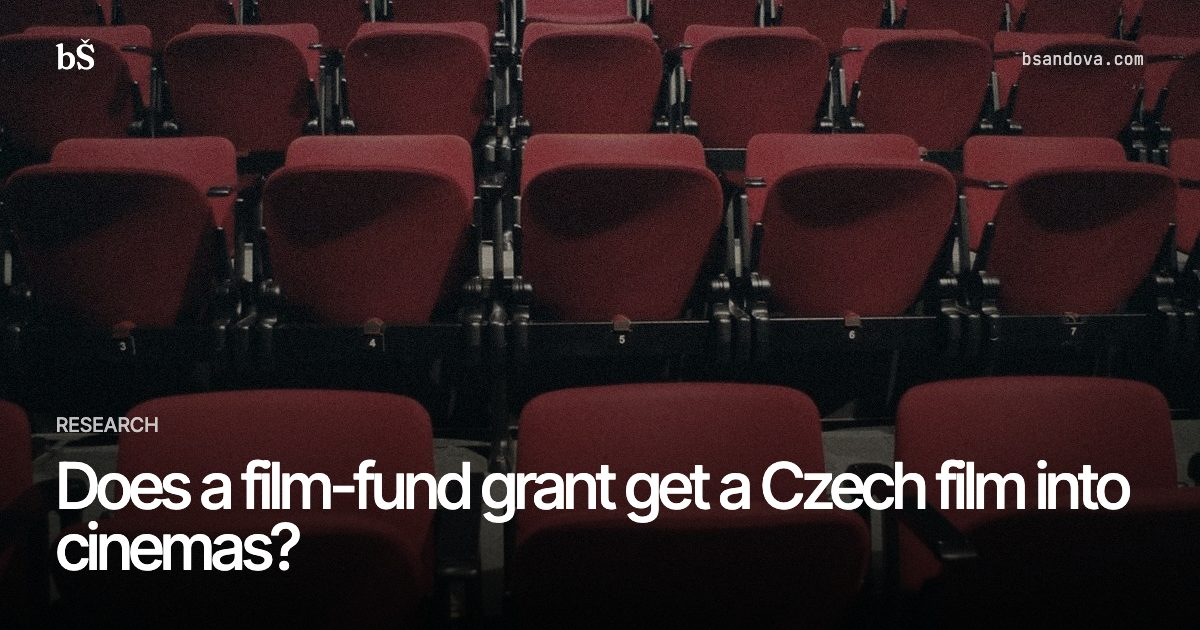
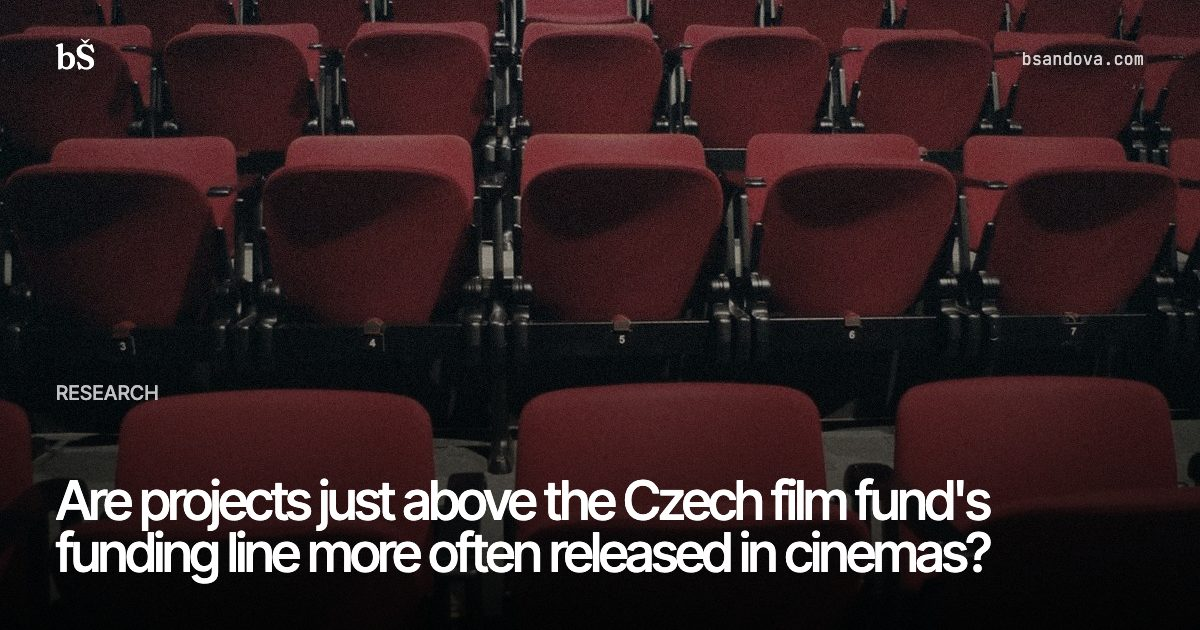
docs(film): film fund version 4, non-causal title and stable-variant range

Changed region(s): [[0.0308, 0.7238, 0.9558, 0.9349], [0.0308, 0.6635, 0.1233, 0.6937], [0.0308, 0.6032, 0.1233, 0.6333]]

diff --git a/texts/film-fund.html b/texts/film-fund.html
@@ -3,10 +3,10 @@
 <head>
 <meta charset="utf-8">
 <meta name="viewport" content="width=device-width, initial-scale=1">
-<title>Does a film-fund grant get a Czech film into cinemas? · Barbora Šandová</title>
-<meta name="description" content="A pre-specified analysis of 588 production applications to the Czech film fund, 2016–2021: at the funding cut-off, the estimated jump in release in Czech cinemas is positive but its interval includes zero (underpowered), and whether the Council's points foresee admissions could not be told.">
-<meta property="og:title" content="Does a film-fund grant get a Czech film into cinemas?">
-<meta property="og:description" content="588 production applications, 40 calls: the jump in release at the funding cut-off is +39 percentage points but underpowered; points and admissions show no clear relation (ρ −0.09).">
+<title>Are projects just above the Czech film fund's funding line more often released in cinemas? · Barbora Šandová</title>
+<meta name="description" content="A pre-specified analysis of 588 production applications to the Czech film fund, 2016–2021: projects just above the funding cut-off reached Czech cinemas an estimated 39 percentage points more often, with an interval that includes zero (underpowered), so the data cannot say whether funding at the line changes release; whether the Council's points foresee admissions could not be told.">
+<meta property="og:title" content="Are projects just above the Czech film fund's funding line more often released in cinemas?">
+<meta property="og:description" content="588 production applications, 40 calls: the difference in release at the funding cut-off is +39 percentage points (95 % CI −14 to +100), underpowered; points and admissions show no clear relation (ρ −0.09).">
 <meta property="og:type" content="article">
 <meta property="og:url" content="https://bsandova.com/texts/film-fund">
 <meta property="og:image" content="https://bsandova.com/assets/og/film-fund.jpg">
@@ -36,7 +36,7 @@
 </style>
 
 <!-- ld --><link rel="alternate" type="application/atom+xml" title="Barbora Šandová" href="/feed.xml">
-<script type="application/ld+json">{"@context": "https://schema.org", "@type": "Article", "headline": "Does a film-fund grant get a Czech film into cinemas?", "description": "A pre-specified analysis of 588 production applications to the Czech film fund, 2016–2021: at the funding cut-off, the estimated jump in release in Czech cinemas is positive but its interval includes zero (underpowered), and whether the Council's points foresee admissions could not be told.", "url": "https://bsandova.com/texts/film-fund", "image": "https://bsandova.com/assets/og/film-fund.jpg", "dateModified": "2026-10-05T22:00:43+02:00", "author": {"@type": "Person", "name": "Barbora Šandová", "url": "https://bsandova.com/"}}</script><!-- /ld -->
+<script type="application/ld+json">{"@context": "https://schema.org", "@type": "Article", "headline": "Are projects just above the Czech film fund's funding line more often released in cinemas?", "description": "A pre-specified analysis of 588 production applications to the Czech film fund, 2016–2021: projects just above the funding cut-off reached Czech cinemas an estimated 39 percentage points more often, with an interval that includes zero (underpowered), so the data cannot say whether funding at the line changes release; whether the Council's points foresee admissions could not be told.", "url": "https://bsandova.com/texts/film-fund", "image": "https://bsandova.com/assets/og/film-fund.jpg", "dateModified": "2026-10-05T22:00:43+02:00", "author": {"@type": "Person", "name": "Barbora Šandová", "url": "https://bsandova.com/"}}</script><!-- /ld -->
 </head>
 <body>
 <div class="top"><b><a href="../" aria-label="bŠ, bsandova.com, home">bŠ</a></b><nav><a href="../#work">Work</a><a href="../#works">All work</a><a href="../#about">About</a><a href="../ask/" class="ask-link">Ask</a><a href="../#contact">Contact</a></nav><span class="tr">research · film · en</span></div>
@@ -44,10 +44,10 @@
 <article class="text">
 <header class="text-head">
   <p class="kicker">Research · Czech film fund · production calls 2016–2021</p>
-  <h1>Does a film-fund grant get a Czech film <em>into cinemas?</em></h1>
-  <p class="deck">At the funding cut-off of 40 calls, the estimated jump in release in Czech cinemas is positive but its interval includes zero, so it is labelled underpowered; whether the points of the fund's Council foresee audiences could not be told.</p>
+  <h1>Are projects just above the Czech film fund's funding line <em>more often released in cinemas?</em></h1>
+  <p class="deck">Just above the funding line of 40 Czech film-fund calls, projects reached cinemas +39 pp more often (95 % CI −14 to +100, underpowered): the data cannot say whether funding at the line changes release.</p>
   <dl class="facts">
-    <div><dt>release jump at the cut-off</dt><dd>+39 pp <small>percentage points · 95 % CI −14 to +100 · underpowered</small></dd></div>
+    <div><dt>release difference at the cut-off</dt><dd>+39 pp <small>percentage points · 95 % CI −14 to +100 · underpowered</small></dd></div>
     <div><dt>points against admissions, within call</dt><dd>ρ = −0.09 <small>rank correlation, −1 to +1 · 95 % CI −0.22 to +0.04, calls resampled · 254 applications of released films, repeats included</small></dd></div>
     <div><dt>rejected near the cut-off, funded in a later call</dt><dd>28 of 88 <small>administrative count · exploratory, not in the registered plan</small></dd></div>
     <div><dt>production applications studied</dt><dd>588 <small>40 calls · administrative count</small></dd></div>
@@ -57,24 +57,24 @@
   <summary>Overwhelmed? Here's the short version</summary>
   <ul>
     <li>The fund funds projects by points until the money runs out, so those near the line are close to alike.</li>
-    <li>Just above the line, the estimate points to more releases in Czech cinemas, but zero is within its range: the data are too few to be sure.</li>
-    <li>It rests on 182 first applications near the line in 37 calls, on release found by matching titles (82–91 % of released films found) and on Czech cinemas only; across the robustness variants the estimate moves from +3 to +57 percentage points.</li>
+    <li>Just above the line, more projects reached Czech cinemas than just below it, but zero is within the interval, and the checks of the design's assumption are weak, so the data cannot say whether the money changes release.</li>
+    <li>It rests on 182 first applications near the line in 37 calls, on release found by matching titles (82–91 % of released films found) and on Czech cinemas only; across the stable robustness variants the estimate ranges from +24 to +57 percentage points (+3 at half the bandwidth, where it is unstable).</li>
     <li>In a count outside the registered plan, a third of the projects rejected near the line were funded later: a "no" was often a "not yet".</li>
     <li>Among released films, points and audiences showed no clear relation either way.</li>
   </ul>
 </details>
 <dl class="meta">
-  <div><dt>published</dt><dd>1 October 2026 · updated 3 October 2026 · <a href="../changelog/#film-fund">version 3</a></dd></div>
+  <div><dt>published</dt><dd>1 October 2026 · updated 9 October 2026 · <a href="../changelog/#film-fund">version 4</a></dd></div>
   <div><dt>work since</dt><dd>July 2024</dd></div>
 </dl>
 <details class="meta-more">
   <summary>About this study</summary>
 <dl class="meta">
   <div><dt>status</dt><dd>research, pre-specified analysis (self-timestamped)</dd></div>
-  <div><dt>registration</dt><dd>pre-specified analysis: analysis plan committed at <code>3ddd69c</code> on 1 October 2026, before this analysis was run and before the results commit <code>5a48067</code>; the author had worked with these data since July 2024; commit times are self-reported, and the branch was pushed after the analysis. Two dated changes followed, and an audit on 3 October 2026 listed the registered steps that were not carried out (see <a href="../changelog/#film-fund-changes">What changed after registration</a>).</dd></div>
+  <div><dt>registration</dt><dd>registered analysis plan: design committed at <code>3ddd69c</code> (tag <code>film-fund-design</code>) on 1 October 2026, before the results commit <code>5a48067</code> (tag <code>film-fund-results</code>); commit times are self-reported, and the branch was pushed after the analysis. On <code>main</code> both arrive in one squash commit, <code>488d7c6</code>, so they are not independently timestamped; the tags were set on 9 October 2026. The author had worked with these data since July 2024. Two dated changes followed, and an audit on 3 October 2026 listed the registered steps that were not carried out (see <a href="../changelog/#film-fund-changes">What changed after registration</a>).</dd></div>
   <div><dt>data</dt><dd>decision tables of the State Cinematography Fund and the State Audiovisual Fund, 514 files 2014–2026, accessed 1 October 2026<sup class="cite"><a href="#r4">4</a></sup><sup class="cite"><a href="#r5">5</a></sup>; UFD premiere lists 2016–2025<sup class="cite"><a href="#r6">6</a></sup>; LUMIERE, 999 films with Czech (co-)production, accessed 1 October 2026<sup class="cite"><a href="#r7">7</a></sup>; Wikidata production companies<sup class="cite"><a href="#r11">11</a></sup>. Hashes in <a href="https://github.com/sandovabarbora/bsandova.com/blob/main/docs/research/film-fund-files.sha256">film-fund-files.sha256</a>; the study's rows in <a href="../assets/film/applications.csv">applications.csv</a>.</dd></div>
   <div><dt>code</dt><dd><a href="https://github.com/sandovabarbora/bsandova.com/tree/main/tools/film">tools/film/</a> at the commit that publishes this page; rebuild: <code>uv run … python tools/film/analyse.py</code> (full order under <a href="#reproduction">Reproduction</a>)</dd></div>
-  <div><dt>cite as</dt><dd>Šandová, B. (2026). <i>Does a film-fund grant get a Czech film into cinemas?</i> bsandova.com/texts/film-fund, version 3.</dd></div>
+  <div><dt>cite as</dt><dd>Šandová, B. (2026). <i>Are projects just above the Czech film fund's funding line more often released in cinemas?</i> bsandova.com/texts/film-fund, version 4.</dd></div>
   <div><dt>licence</dt><dd>code MIT; text, figures and data CC BY 4.0</dd></div>
 </dl>
 </details>
@@ -82,7 +82,7 @@
 <section class="film film-page"><div class="shot" style="view-transition-name:ph-film-fund;--bg:url(../assets/photo/film-fund.jpg);--bg-s:url(../assets/photo/film-fund-1200.jpg)"></div><p class="credit">Photo: <a href="https://www.rawpixel.com/image/5921030/photo-image-background-public-domain-red">rawpixel</a> · CC0, toned</p></section>
 
 <section>
-<p>Public film funds decide which films are made, but it is hard to say what their money changes, because the projects they fund are the ones that look most likely to succeed anyway. A ranking with a hard budget line offers a way round this. When applications are funded in order of their points until the money runs out, those just above the line and those just below it were judged almost alike, and comparing them estimates the effect of the money itself. Jacob and Lefgren used the funding line of the US National Institutes of Health in this way to estimate what a research grant changes<sup class="cite"><a href="#r1">1</a></sup>, and Li asked whether reviewers' scores foresee the later success of what they fund<sup class="cite"><a href="#r2">2</a></sup>; the method is set out by Cattaneo, Idrobo and Titiunik<sup class="cite"><a href="#r3">3</a></sup>. The Czech film fund publishes, for every call, the points and the award of every application, funded or not, which makes the same two questions answerable for Czech film: does production support change whether a project reaches cinemas and how many people see it, and do the points of the Council, the fund's board that scores applications, foresee audiences.</p>
+<p>Public film funds decide which films are made, but it is hard to say what their money changes, because the projects they fund are the ones that look most likely to succeed anyway. A ranking with a hard budget line offers a way round this. When applications are funded in order of their points until the money runs out, those just above the line and those just below it were judged almost alike, and comparing them estimates what the money changes, provided nothing else changes at the line. Jacob and Lefgren used the funding line of the US National Institutes of Health in this way to estimate what a research grant changes<sup class="cite"><a href="#r1">1</a></sup>, and Li asked whether reviewers' scores foresee the later success of what they fund<sup class="cite"><a href="#r2">2</a></sup>; the method is set out by Cattaneo, Idrobo and Titiunik<sup class="cite"><a href="#r3">3</a></sup>. The Czech film fund publishes, for every call, the points and the award of every application, funded or not, which makes the same two questions answerable for Czech film: do projects just above the line reach cinemas more often and draw more viewers than those just below it, and do the points of the Council, the fund's board that scores applications, foresee audiences.</p>
 </section>
 
 <section>
@@ -99,9 +99,9 @@
 
 <section>
 <h2>How this was done</h2>
-<p>In every one of the 77 production calls in the tables the line is sharp: every funded application has more points than every unfunded one (fig. 1). The design is a regression discontinuity: it compares applications just above and just below the line. The running variable, the number that decides funding, is an application's points minus its call's cut-off; the treatment is an award above zero; and the estimand, the quantity to be estimated, is the effect of support for a project at the cut-off. It is estimated pooled across calls. A straight line is fitted on each side of the cut-off (local linear), applications closer to the line count more (a triangular kernel), the bandwidth, how many points either side are used, is the one that minimizes mean squared error, and the 95 % confidence intervals are robust bias-corrected, which allows for the curvature a straight line misses, and clustered by call, so applications in the same call are not treated as independent<sup class="cite"><a href="#r3">3</a></sup>. The effective sample, the applications inside the bandwidth, is given next to every estimate.</p>
+<p>In every one of the 77 production calls in the tables the line is sharp: every funded application has more points than every unfunded one (fig. 1). The design is a regression discontinuity: it compares applications just above and just below the line. The running variable, the number that decides funding, is an application's points minus its call's cut-off; the treatment is an award above zero; and the estimand, the quantity to be estimated, is the effect of support for a project at the cut-off. It is estimated pooled across calls. The comparison identifies that effect only under one assumption: that without the award, release and admissions would change smoothly across the cut-off, which requires that the Council did not place projects on one side of the line on purpose and that nothing else changes at the line. A straight line is fitted on each side of the cut-off (local linear), applications closer to the line count more (a triangular kernel), the bandwidth, how many points either side are used, is the one that minimizes mean squared error, and the 95 % confidence intervals are robust bias-corrected, which allows for the curvature a straight line misses, and clustered by call, so applications in the same call are not treated as independent<sup class="cite"><a href="#r3">3</a></sup>. The effective sample, the applications inside the bandwidth, is given next to every estimate.</p>
 <p>The weak point is linking an application to a released film, because working titles change. The linking was done blind: the code that matched titles never loaded the points or the awards. An exact match of the normalized title within six years of the call counted directly, with a random tenth of them checked by hand; every looser match was checked by hand without the funding status, and the links were frozen before any points were joined. A blind audit of 60 unmatched applications then searched for films released under other titles (see <a href="../changelog/#film-fund-changes">What changed after registration</a>). The second outcome is Czech admissions, analysed as the logarithm of one plus admissions, with zero for a project that was not released; 15 linked projects have no admissions figure and are left out of that outcome.</p>
-<p>The Council scores knowing how much money a call has, so it could in principle place projects just above or below the line on purpose. Two checks look for that: a test of whether applications bunch on one side of the cut-off, the local polynomial density test of Cattaneo, Jansson and Ma<sup class="cite"><a href="#r8">8</a></sup>, which refines McCrary's<sup class="cite"><a href="#r9">9</a></sup>, and a test of whether the budget, the amount requested, the share of the budget requested and the producer's earlier funded applications jump at the cut-off. The last of these was computed with each producer's applications in alphabetical order of title rather than in order of time, and it counts later calls too, so it does not measure what it names; only the first three balance checks are read. The density test is weaker than its p-value, the chance of bunching at least this uneven if there were none, suggests: the cut-off is placed between the last funded and the first unfunded project after the money was allocated, so by construction no application sits right at it and few sit close to it.</p>
+<p>The Council scores knowing how much money a call has, so it could in principle place projects just above or below the line on purpose. Two checks look for that: a test of whether applications bunch on one side of the cut-off, the local polynomial density test of Cattaneo, Jansson and Ma<sup class="cite"><a href="#r8">8</a></sup>, which refines McCrary's<sup class="cite"><a href="#r9">9</a></sup>, and a test of whether the budget, the amount requested, the share of the budget requested and the producer's earlier funded applications jump at the cut-off. The last of these was computed with each producer's applications in alphabetical order of title rather than in order of time, and it counts later calls too, so it does not measure what it names; only the first three balance checks are read, so the registered balance rule was not fully applied. The density test is uninformative by construction: the cut-off is placed between the last funded and the first unfunded project after the money was allocated, so no application sits right at it and few sit close to it, and its p-value, the chance of bunching at least this uneven if there were none, cannot show the absence of sorting. Neither check therefore supports the assumption as fully as the plan intended, and the estimates below are read with that qualification.</p>
 <p>How much the data can show was worked out before this analysis joined any outcome, from the points alone. Counting every application, repeat ones included, there were about 250 within five points of the cut-off in 2016–2021; with that many, a difference in the share released of about 25 percentage points would be detected four times in five at the 5 % level. The analysis keeps first applications only, of which 175 lie within five points, so the difference it can detect is larger than 25 points; a difference of 10 points, which would still matter to a producer, would mostly be missed. The labels were fixed accordingly: an interval that excludes zero is "supported", one that stays within ten points of zero is "not supported", and anything between is "underpowered".</p>
 </section>
 
@@ -114,8 +114,8 @@
   <tr><td>Q1 · O1 release in Czech cinemas</td><td>supported if the 95 % CI excludes 0; not supported if it lies within ±10 pp</td><td class="v">+39 pp <small>95 % CI −14 to +100 · 88 / 94 applications · 37 calls</small></td><td class="v"><b>underpowered</b></td></tr>
   <tr><td>Q1 · O2 log(1 + Czech admissions)</td><td>supported if the 95 % CI excludes 0; not supported if it lies within ±0.25</td><td class="v">+3.18 <small>95 % CI −2.30 to +9.23 · 86 / 91 · 37 calls</small></td><td class="v"><b>underpowered</b></td></tr>
   <tr><td>Q2 · points and admissions, released films</td><td>descriptive, no label</td><td class="v">ρ = −0.09 <small>95 % CI −0.22 to +0.04 · 254 applications, repeats included · 32 calls</small></td><td class="v">descriptive</td></tr>
-  <tr><td>Validity · bunching at the cut-off</td><td>indeterminate if p &lt; 0.05</td><td class="v">p = 0.45</td><td class="v">passes</td></tr>
-  <tr><td>Validity · covariates at the cut-off</td><td>indeterminate if any 95 % CI excludes 0</td><td class="v">the three read include 0; the fourth was miscomputed</td><td class="v">passes, on three</td></tr>
+  <tr><td>Validity · bunching at the cut-off</td><td>indeterminate if p &lt; 0.05</td><td class="v">p = 0.45</td><td class="v">uninformative by construction</td></tr>
+  <tr><td>Validity · covariates at the cut-off</td><td>indeterminate if any 95 % CI excludes 0</td><td class="v">3 of 4 computed; the three include 0; the fourth was miscomputed</td><td class="v">rule not fully applied</td></tr>
   </tbody>
 </table>
 </div>
@@ -124,13 +124,13 @@
 
 <section>
 <h2>Does support change whether a film reaches cinemas?</h2>
-<p>Across all 588 applications, 50 % of the funded and 29 % of the unfunded projects were linked to a release in Czech cinemas by 30 September 2026. That gap mixes the money with everything that made the Council rank a project highly. At the cut-off the comparison is between projects scored almost alike. There, the share released rises by an estimated 39 percentage points from just below to just above the line, but the 95 % confidence interval runs from −14 to +100 points (fig. 2). With 182 first applications near the line the interval is so wide that it includes both no effect and an effect of +100 points; it includes zero and the design's 25-point bound, so the registered label is <b>underpowered</b>, not "no effect". The plan also asked for this result to be given as a range that bounds the linking errors; that range was not computed (see <a href="../changelog/#film-fund-changes">What changed after registration</a>).</p>
+<p>Across all 588 applications, 50 % of the funded and 29 % of the unfunded projects were linked to a release in Czech cinemas by 30 September 2026. That gap mixes the money with everything that made the Council rank a project highly. At the cut-off the comparison is between projects scored almost alike. There, the share released is an estimated 39 percentage points higher just above the line than just below it, but the 95 % confidence interval runs from −14 to +100 points (fig. 2). With 182 first applications near the line the interval is so wide that it includes both no effect and an effect of +100 points; it includes zero and the design's 25-point bound, so the registered label is <b>underpowered</b>, not "no effect", and the data cannot say whether funding at the line changes release. The plan also asked for this result to be given as a range that bounds the linking errors; that range was not computed (see <a href="../changelog/#film-fund-changes">What changed after registration</a>).</p>
 <figure data-chart="../assets/film/charts.json#release">
-  <p class="ch-head">Underpowered: at the cut-off, release in Czech cinemas jumps +39 percentage points, but the interval runs from −14 to +100.</p>
+  <p class="ch-head">Underpowered: at the cut-off, the share released in Czech cinemas is +39 percentage points higher on the funded side, but the interval runs from −14 to +100.</p>
   <img src="../assets/film/02-release.svg" alt="Share of applications that reached Czech cinemas by 30 September 2026, in 1-point bins around the cut-off, with local linear fits within 5.1 points on each side." loading="lazy">
   <figcaption><b>fig. 2</b> · Share of production applications released in Czech cinemas by 30 September 2026, by points from the call's cut-off, 1-point bins (dot size: number of applications), with triangular-kernel local linear fits within 5.1 points on each side; 2016–2021, n = 588. Blue: the funded side; grey: the unfunded side. The fit is drawn for reading only; the estimate and its interval are in the table above. Data: fund decision tables<sup class="cite"><a href="#r4">4</a></sup><sup class="cite"><a href="#r5">5</a></sup>, UFD<sup class="cite"><a href="#r6">6</a></sup> and LUMIERE<sup class="cite"><a href="#r7">7</a></sup>, accessed 1 October 2026.</figcaption>
 </figure>
-<p>Part of why the jump is hard to measure is in the fund's own records. Of the 88 applications rejected within the bandwidth below the cut-off, 28 were funded in a later production call up to 2026 under the same title and applicant. This count was not in the registered plan, and it is a lower bound, since projects that changed title are not followed. For a third of the near misses, then, the fund's answer was "not yet" rather than "no", and the comparison at the first application measures the effect of being funded at once against being funded later or never. Czech admissions show the same pattern: a positive estimate at the cut-off, +3.18 on the log scale, with an interval from −2.30 to +9.23, labelled <b>underpowered</b>. That outcome, the logarithm of one plus admissions with zero for unreleased projects, mixes whether a film was released with how many people saw it, depends on the unit in which admissions are counted and is driven by the zeros<sup class="cite"><a href="#r10">10</a></sup>; it is not an elasticity, a percentage change in admissions, and since its interval includes zero, not even its sign is established.</p>
+<p>The fund's own records may explain part of why the difference is hard to measure. Of the 88 applications rejected within the bandwidth below the cut-off, 28 were funded in a later production call up to 2026 under the same title and applicant. This count was not in the registered plan, and it is a lower bound, since projects that changed title are not followed. For a third of the near misses, then, the fund's answer was "not yet" rather than "no", and the comparison at the first application measures the effect of being funded at once against being funded later or never. Czech admissions show the same pattern: a positive estimate at the cut-off, +3.18 on the log scale, with an interval from −2.30 to +9.23, labelled <b>underpowered</b>. That outcome, the logarithm of one plus admissions with zero for unreleased projects, mixes whether a film was released with how many people saw it, depends on the unit in which admissions are counted and is driven by the zeros<sup class="cite"><a href="#r10">10</a></sup>; it is not an elasticity, a percentage change in admissions, and since its interval includes zero, not even its sign is established.</p>
 <p>The near misses can also be followed descriptively. Of the 94 projects funded within the bandwidth above the line, 54 % reached cinemas. Of the 28 rejected projects that were funded in a later call, 54 % did too, and of the 60 not funded in any production call up to 2026, 25 %. These shares are exploratory, outside the registered plan, and not estimates of an effect, because the projects that tried again and succeeded may differ from those that did not. The last two shares are not produced by any committed script.</p>
 <div class="ht-wrap">
 <table class="ht">
@@ -143,8 +143,8 @@
   </tbody>
 </table>
 </div>
-<p class="note">Released: linked to a premiere in Czech cinemas by 30 September 2026; administrative counts, descriptive, all 588 applications, not only those near the cut-off. Animation calls include series and combined development-and-production calls, whose output often goes to television, which is why so few animation projects are counted as released.</p>
-<p>By kind of project, the gap between funded and unfunded applications is widest for documentaries, where 55 % of funded and 23 % of unfunded projects reached cinemas, and the release share is lowest for animation, where most calls fund series and the fund's support often ends in a television broadcast that these sources do not record. These raw gaps are larger than any credible effect of the money alone, which is the reason for comparing at the line.</p>
+<p class="note">Released: linked to a premiere in Czech cinemas by 30 September 2026; administrative counts, descriptive, all 588 applications, not only those near the cut-off. Animation calls include series and combined development-and-production calls, whose output often goes to television, which may explain why so few animation projects are counted as released.</p>
+<p>By kind of project, the gap between funded and unfunded applications is widest for documentaries, where 55 % of funded and 23 % of unfunded projects reached cinemas, and the release share is lowest for animation, where most calls fund series and the fund's support often ends in a television broadcast that these sources do not record. These raw gaps mix the money with how the Council ranked the projects, the reason for comparing at the line.</p>
 </section>
 
 <section>
@@ -174,18 +174,18 @@
   </tbody>
 </table>
 </div>
-<p class="note">Robust bias-corrected intervals can be wider than the share they describe and can exclude their own point estimate when the bandwidth is small; at half the bandwidth, with 57 applications in 21 calls, the estimate is unstable and is not read. Two variants exclude zero, in opposite directions: the donut and the halved bandwidth. For admissions, the halved bandwidth's interval is entirely negative too (−32.05 to −3.45, 28 / 27 applications, 21 calls). Across the variants the point estimate for release moves from +3 to +57 points, so its size depends on choices such as the bandwidth.</p>
+<p class="note">Robust bias-corrected intervals can be wider than the share they describe and can exclude their own point estimate when the bandwidth is small. At half the bandwidth, with 57 applications in 21 calls, the estimate (+3 pp, 95 % CI −323 to −46) lies outside its own interval; it is unstable, is not read, and is left out of the range and the count below. For admissions, the halved bandwidth's interval is entirely negative too (−32.05 to −3.45, 28 / 27 applications, 21 calls). Among the stable variants the point estimate for release ranges from +24 to +57 points, so its size depends on choices such as the bandwidth and the window, and only one of them, the donut, has an interval that excludes zero.</p>
 </section>
 
 
 <section>
 <h2>What this means</h2>
-<p>Measured: in production calls of 2016–2021, projects just above the funding line reached Czech cinemas by an estimated 39 percentage points more often than projects just below it, with a 95 % interval from −14 to +100 points. With 182 first applications near the line, that interval includes no effect, and across the robustness variants the estimate moves from +3 to +57 points. In a count outside the registered plan, a third of the projects rejected near the line were funded later. Among released films, points and admissions showed no clear relation (ρ −0.09, 95 % CI −0.22 to +0.04): the interval rules out a positive relation above about 0.04 but not a weak negative one. For someone deciding how the fund should work, the data support little: a rejection near the line was often followed by funding later, and these data cannot show that points given for artistic and production merit foresee audiences. Whether a single grant changes whether a film reaches Czech cinemas remains open; a design with more calls, or one that follows projects through their later applications, would be needed to settle it.</p>
+<p>Measured: in production calls of 2016–2021, projects just above the funding line reached Czech cinemas by an estimated 39 percentage points more often than projects just below it, with a 95 % interval from −14 to +100 points. With 182 first applications near the line, that interval includes no effect, and across the stable robustness variants the estimate ranges from +24 to +57 points (+3 at half the bandwidth, where it is unstable). The checks of the assumption the design rests on are weak: the density test is uninformative by construction and the balance rule was applied to three of four covariates. In a count outside the registered plan, a third of the projects rejected near the line were funded later. Among released films, points and admissions showed no clear relation (ρ −0.09, 95 % CI −0.22 to +0.04): the interval rules out a positive relation above about 0.04 but not a weak negative one. For someone deciding how the fund should work, the data support little: a rejection near the line was often followed by funding later, and these data cannot show that points given for artistic and production merit foresee audiences. Whether a single grant changes whether a film reaches Czech cinemas remains open; a design with more calls, or one that follows projects through their later applications, would be needed to settle it.</p>
 </section>
 
 <section>
 <h2>What this does not show</h2>
-<p>The effect is estimated at the funding line only and says nothing about projects far above or below it. Release means release in Czech cinemas; television premieres, streaming and festival screenings are not in the data, so a documentary made for television counts as unreleased. Linking misses films whose titles changed beyond recognition, about one in ten unmatched applications in the audit; because fewer unfunded projects were linked, the share of released films missed is somewhat higher among unfunded ones (recall about 91 % against 82–87 %), which pushes the estimated effect on release upward. The fund's award is the only money observed: Czech Television, regional funds and the separate production incentives are not, and a rejected project may have found them. The points cannot show whether a funded film was better than it would have been without support. None of this evaluates the fund as a whole, its other programmes or the 2025 scheme.</p>
+<p>The effect is estimated at the funding line only and says nothing about projects far above or below it. Release means release in Czech cinemas; television premieres, streaming and festival screenings are not in the data, so a documentary made for television counts as unreleased. Linking misses films whose titles changed beyond recognition: the blind audit of 60 unmatched applications found films released under another title for 3 of 30 funded and 2 of 30 unfunded applications, with one more unfunded case unsure; because fewer unfunded projects were linked, the share of released films missed is somewhat higher among unfunded ones (recall about 91 % against 82–87 %), which would push the estimate for release upward if the same gap holds at the line. The fund's award is the only money observed: Czech Television, regional funds and the separate production incentives are not, and a rejected project may have found them. The points cannot show whether a funded film was better than it would have been without support. None of this evaluates the fund as a whole, its other programmes or the 2025 scheme.</p>
 </section>
 
 <section id="reproduction">
@@ -211,7 +211,7 @@
 <li id="r5">Státní fond audiovize (2025–2026). Jednání rad, decision tables. <a href="https://sfa.gov.cz/jednani">sfa.gov.cz/jednani</a>. Accessed 1 October 2026.</li>
 <li id="r6">Unie filmových distributorů (2016–2025). Premiéry v českých kinech, annual lists. <a href="https://www.ufd.cz/prehledy-statistiky/premiery-v-ceskych-kinech">ufd.cz</a>. Accessed 1 October 2026.</li>
 <li id="r7">European Audiovisual Observatory (2026). LUMIERE, admissions of films released in Europe; search by producing country CZ including minority co-production, production years 2014–2026. <a href="https://lumiere.obs.coe.int/">lumiere.obs.coe.int</a>. Accessed 1 October 2026.</li>
-<li id="r8">Cattaneo, M. D., Jansson, M., Ma, X. (2020). Simple local polynomial density estimators. <i>Journal of the American Statistical Association</i> 115(531), 1449–1455. <a href="https://doi.org/10.1080/01621459.2019.1635480">doi:10.1080/01621459.2019.1635480</a>.</li>
+<li id="r8">Cattaneo, M. D., Jansson, M., Ma, X. (2020). Simple local polynomial density estimators. <i>Journal of the American Statistical Association</i> 115(531), 1449–1455. <a href="https://doi.org/10.1080/01621459.2019.1635480">doi:10.1080/01621459.2019.1635480</a>. Accessed 1 October 2026.</li>
 <li id="r9">McCrary, J. (2008). Manipulation of the running variable in the regression discontinuity design: a density test. <i>Journal of Econometrics</i> 142(2), 698–714. <a href="https://doi.org/10.1016/j.jeconom.2007.05.005">doi:10.1016/j.jeconom.2007.05.005</a>. Accessed 1 October 2026.</li>
 <li id="r10">Chen, J., Roth, J. (2024). Logs with zeros? Some problems and solutions. <i>Quarterly Journal of Economics</i> 139(2), 891–936. <a href="https://doi.org/10.1093/qje/qjad054">doi:10.1093/qje/qjad054</a>. Accessed 1 October 2026.</li>
 <li id="r11">Wikidata (2026). Production company (P272) of the LUMIERE films' items, SPARQL query. <a href="https://query.wikidata.org/">query.wikidata.org</a>. Accessed 1 October 2026.</li>

diff --git a/docs/changelogs/film-fund.html b/docs/changelogs/film-fund.html
@@ -6,6 +6,7 @@
 </ul>
 <h4>Change log</h4>
 <ul>
+<li>9 October 2026, version 4, following a model-based review after publication: retitled from "Does a film-fund grant get a Czech film into cinemas?" to "Are projects just above the Czech film fund's funding line more often released in cinemas?" (the URL is kept), and the deck now says the data cannot say whether funding at the line changes release (+39 pp, 95 % CI −14 to +100, underpowered). The identifying assumption of the regression discontinuity (no sorting across the line and nothing else changing there) is stated, with the state of its checks: the density test (p = 0.45) is uninformative by construction, since the cut-off is placed after allocation, and the balance rule was applied to 3 of 4 covariates (the fourth was miscomputed), so the registered rule was not fully applied; the tests table no longer says "passes". The halved-bandwidth variant (+3 pp, 95 % CI −323 to −46, its estimate outside its own interval) is now left out of the range and of the count of intervals excluding zero: among the stable variants the estimate ranges from +24 to +57 pp, and only the donut excludes zero (version 3 said "+3 to +57" and that two variants exclude zero). "Is why" and "the reason" readings softened to "may explain"; "the effect of the money itself" and "rises" reworded as a comparison at the line. The recall audit's counts are printed (films released under another title for 3 of 30 funded and 2 of 30 unfunded unmatched applications, one more unfunded unsure). Reference 8 gains its accessed date. The registration row uses the wording of the editorial standard, §6, cites the branch commits by tags set on 9 October 2026 (<code>film-fund-design</code>, <code>film-fund-results</code>) and says that on <code>main</code> design and results share the squash commit <code>488d7c6</code>, so they are not independently timestamped. The chart's callout and alt text say "difference" at the cut-off instead of "jump". No estimate in results.json changed.</li>
 <li>6 October 2026: charts restyled with a headline and notes at key points; numbers unchanged.</li>
 <li>6 October 2026: retitled from "What a Czech film fund grant changes at the cut-off, 2016–2021" to a question; text and numbers unchanged.</li>
 <li>5 October 2026: work dates added; the wording on the analysis plan corrected to match them. No number changed.</li>

diff --git a/tools/film/figures.py b/tools/film/figures.py
@@ -81,7 +81,7 @@ def main() -> None:
             "tip": f"{r.b - 0.5:+.0f} to {r.b + 0.5:+.0f} points: {r.share * 100:.0f} % of {int(r.n)} reached cinemas"} for r in g.itertuples()]
     o1 = R["Q1"]["O1_release"]
     charts["release"] = {
-        "alt": f"Share of applications that reached Czech cinemas by 30 September 2026, in 1-point bins around the cut-off, with local linear fits within {h:.1f} points on each side; the estimated jump at the cut-off is {o1['coef'] * 100:+.0f} percentage points (95 % CI {o1['lo'] * 100:+.0f} to {o1['hi'] * 100:+.0f}).",
+        "alt": f"Share of applications that reached Czech cinemas by 30 September 2026, in 1-point bins around the cut-off, with local linear fits within {h:.1f} points on each side; the estimated difference at the cut-off is {o1['coef'] * 100:+.0f} percentage points (95 % CI {o1['lo'] * 100:+.0f} to {o1['hi'] * 100:+.0f}).",
         "legend": [{"label": "funded side", "c": "held", "shape": "dot"}, {"label": "unfunded side", "c": "grey", "shape": "dot"},
                    {"label": f"local linear fit, {h:.1f} points each side", "c": "ink"}],
         "panels": [{"h": 280, "title": "share released in Czech cinemas by 30 Sep 2026",

diff --git a/tools/charts/story_studies.py b/tools/charts/story_studies.py
@@ -106,8 +106,8 @@ def film() -> None:
     below = next(m for m in lines if m["pts"][-1][0] == 0)
     jump = above["pts"][0][1] - below["pts"][-1][1]
     callout(p, x=0, y=above["pts"][0][1], dx=16, dy=-14, anchor="start",
-            s=f"jump at the cut-off: {jump:+.0f} points, underpowered",
-            narrow={"s": f"jump {jump:+.0f} points,\nunderpowered", "dy": -22})
+            s=f"difference at the cut-off: {jump:+.0f} points, underpowered",
+            narrow={"s": f"difference {jump:+.0f} points,\nunderpowered", "dy": -22})
     save("film", charts, None)
 
 

diff --git a/docs/research/film-fund-design.md b/docs/research/film-fund-design.md
@@ -177,3 +177,19 @@ decided blind before the funding key was opened.
 **5 October 2026 — wording only.** The status line and §0 now state that the author had worked with these data
 since July 2024, and statements about what had been looked at are scoped to this analysis. No rule, number or
 label changed.
+
+**9 October 2026 — correction to the 5 October wording change.** The 5 October 2026 change rewrote the status line
+and parts of §0 in place instead of appending. The registered status line read: "**Status: design committed 1
+October 2026, before any application is linked to a release or to admissions.** Registration is self-timestamped. No
+OSF entry is made, by the author's decision of 1 October 2026. In the article this is a "registered analysis plan:
+design committed at `<hash>` on 1 October 2026, before the results commit; commit times are self-reported"." The
+registered §0 read, for the outcome sources: "**Outcome sources (structure only).** I have checked which columns the
+UFD premiere lists (2000–2025) and the UFD annual and monthly market tables contain. LUMIERE (European Audiovisual
+Observatory) was queried once, for Czech-produced films of production year 2019, to see its format. That query
+showed the titles and admissions of its first three rows (*Ženy v běhu*, *Poslední aristokratka*, *Přes prsty*). No
+application has been matched to any outcome. No admissions figure has been compared with any score." The heading of
+§3 read "Linking applications to films (fixed before any outcome is looked at)". The original text is in the
+history of this file at commit `488d7c6`. On main, this design and the results first appear together in the squash
+commit `488d7c6`, so the order of design and results is not independently timestamped there; the branch commits
+`3ddd69c` (design) and `5a48067` (results) are self-reported. The wording of 5 October 2026 is kept above; this note
+records what it replaced.
